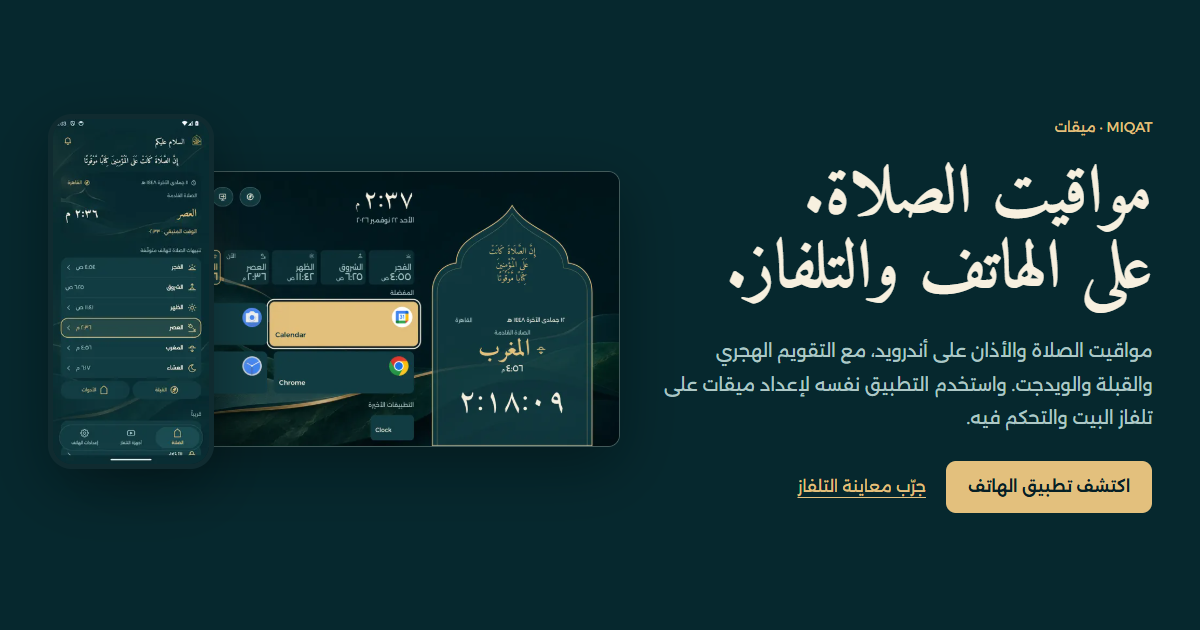
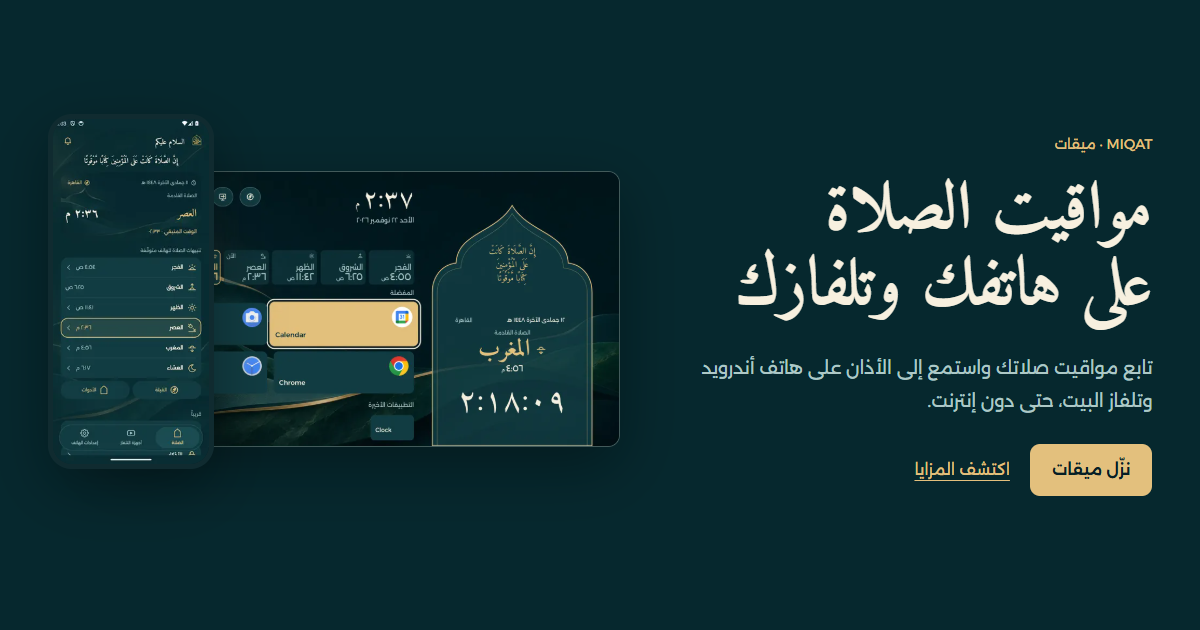
Rewrite product website for first-time visitors

Changed region(s): [[0.555, 0.2714, 0.9867, 0.8143], [0.8633, 0.181, 0.9558, 0.2413]]

diff --git a/site/src/lib/site.ts b/site/src/lib/site.ts
@@ -1,12 +1,7 @@
 // Every page of the preview: one per TV screen or mode, in Arabic (default, at the root) and English (/en/).
 import type { Lang } from './text';
-import { CITIES } from './data';
-
-const cityCount = CITIES.length;
-const countryCount = new Set(CITIES.map((city) => city.countryEn)).size;
-
 export const REPO = 'https://github.com/AbdelrahmanHajjaj/MiqatTV';
-export const INSTALL = `${REPO}#install`;
+export const RELEASE_TAG = 'v0.7.2-preview.2';
 
 type L = Record<Lang, string>;
 export type Page = {
@@ -23,19 +18,17 @@ export const PAGES: Page[] = [
   {
     slug: '', screen: 'home',
     nav: { ar: 'الرئيسية', en: 'Home' },
-    title: { ar: 'ميقات · مواقيت الصلاة على هاتف أندرويد والتلفاز', en: 'Miqat · Prayer times for Android phones and TVs' },
+    title: { ar: 'ميقات · مواقيت الصلاة والأذان على هاتفك وتلفازك', en: 'Miqat · Prayer times and Adhan for your phone and TV' },
     description: {
-      ar: 'مواقيت الصلاة والأذان والتقويم الهجري والقبلة والويدجت على هاتف أندرويد، مع وضع رفيق التلفاز وتطبيقَي Android TV وLG webOS. بالعربية والإنجليزية.',
-      en: 'Offline prayer times, Adhan, Hijri calendar, Qibla and widgets on Android phones, with TV companion mode and Android TV / LG webOS apps. Arabic and English.',
+      ar: 'تابع مواقيت صلاتك واستمع إلى الأذان على هاتف أندرويد وتلفاز البيت. تقويم هجري وقبلة وويدجت، مع تطبيقَي Android TV وLG webOS.',
+      en: 'Prayer times and Adhan on your Android phone and TV. Discover the Hijri calendar, Qibla, home-screen widgets and apps for Android TV and LG webOS.',
     },
     body: {
       ar: [
-        'الصلاة القادمة والعدّ التنازلي داخل المحراب، ومواقيت اليوم وتطبيقاتك المفضلة بجانبه. يعمل ميقات كشاشة رئيسية على أندرويد TV، وكتطبيق مستقل يعرض HDMI على LG.',
-        `المواقيت تُحسب على التلفاز نفسه دون إنترنت، لـ ${cityCount} مدينة في ${countryCount} دولة، مع اختيار طريقة الحساب ومذهب العصر وتعديل التاريخ الهجري.`,
+        'تابع الصلاة القادمة ومواقيت اليوم، واستمع إلى الأذان وإذاعة القرآن على شاشة البيت.',
       ],
       en: [
-        'The next prayer and countdown sit inside the mihrab, with today’s times and your favourite apps alongside. Android TV uses Miqat as Home; LG runs it as a separate app with HDMI.',
-        `Times are calculated on the TV, fully offline, for ${cityCount} cities in ${countryCount} countries, with your choice of calculation method, Asr school and Hijri date offset.`,
+        'Keep the next prayer and today’s times in view, with Adhan and Quran radio on the TV at home.',
       ],
     },
   },
@@ -44,17 +37,15 @@ export const PAGES: Page[] = [
     nav: { ar: 'مواقيت اليوم والقبلة', en: 'Today & Qibla' },
     title: { ar: 'مواقيت الصلاة اليوم والقبلة على التلفاز · ميقات', en: 'Today’s prayer times and Qibla on your TV · Miqat' },
     description: {
-      ar: 'مواقيت اليوم مع الوقت المتبقي ومفاتيح الأذان لكل صلاة واتجاه القبلة من مدينتك.',
-      en: 'Today’s prayer times, countdowns, per-prayer Adhan switches and the Qibla bearing from your city.',
+      ar: 'تابع مواقيت الصلاة اليوم واعرف اتجاه القبلة من مدينتك.',
+      en: 'See today’s prayer times and find the Qibla direction from your city.',
     },
     body: {
       ar: [
-        'شاشة «مواقيت اليوم» تعرض المواقيت الست مع الوقت المتبقي، ومفتاحًا مستقلًا لأذان كل صلاة.',
-        'تعرض البوصلة اتجاه القبلة من مدينتك، مع ضبط اتجاه الغرفة على أندرويد TV.',
+        'اعرف الوقت المتبقي لكل صلاة، واختر الصلوات التي تريد سماع أذانها.',
       ],
       en: [
-        'Today’s prayers shows all six times with the time left to each, and an independent Adhan switch for each prayer.',
-        'The compass shows the Qibla bearing from your city, with room-facing calibration on Android TV.',
+        'See how long remains until each prayer and choose which Adhan alerts to hear.',
       ],
     },
   },
@@ -63,51 +54,51 @@ export const PAGES: Page[] = [
     nav: { ar: 'تذكير قبل الصلاة', en: 'Reminder' },
     title: { ar: 'تذكير قبل الصلاة على التلفاز · ميقات', en: 'A reminder before each prayer on your TV · Miqat' },
     description: {
-      ar: 'تظهر التذكيرات على شاشة ميقات الرئيسية. ويمكن لخدمة الصلاة المفعّلة على أندرويد إظهار شريط فوق التطبيقات والمداخل المدعومة.',
-      en: 'Prayer reminders appear on Miqat Home. Android’s enabled prayer service can also show a banner over supported apps and inputs.',
+      ar: 'تذكير قبل الصلاة لتُنهي ما تشاهده وتستعد لها.',
+      en: 'A reminder before prayer, so you can finish what you’re watching and get ready.',
     },
     body: {
-      ar: ['تختار في الإعدادات متى يظهر التذكير: قبل الصلاة بعشر دقائق أو بخمس عشرة، أو إيقافه. ويتحوّل إطار المحراب إلى الذهبي الفاتح في آخر ربع ساعة.'],
-      en: ['Settings picks when the reminder comes: 10 or 15 minutes before the prayer, or off. The arch outline turns light gold in the last quarter hour.'],
+      ar: ['اختر وقت التذكير المناسب لك قبل أن يحين الأذان.'],
+      en: ['Choose how far ahead of the Adhan you’d like a reminder.'],
     },
   },
   {
     slug: 'call', screen: 'call', mode: 'call',
-    nav: { ar: 'الأذان', en: 'The call' },
-    title: { ar: 'الأذان على التلفاز في وقته · ميقات', en: 'The adhan on your TV, on time · Miqat' },
+    nav: { ar: 'الأذان', en: 'Adhan' },
+    title: { ar: 'استمع إلى الأذان على تلفازك · ميقات', en: 'Hear the Adhan on your TV · Miqat' },
     description: {
-      ar: 'أذان مجدول مع ١٣ صوتًا مدمجًا وتسجيل خاص للفجر.',
-      en: 'Scheduled Adhan with 13 built-in voices and a separate Fajr recording.',
+      ar: 'استمع إلى الأذان في البيت، مع ١٣ صوتًا للاختيار منها.',
+      en: 'Hear the call to prayer at home, with 13 Adhan voices to choose from.',
     },
     body: {
-      ar: ['اضبط مستوى الأذان من الإعدادات. أغلق شاشته بزر الرجوع، أو انتظر الإغلاق التلقائي بعد عشر دقائق.'],
-      en: ['Set the Adhan level in Settings. Press Back to dismiss its screen, or let it close after ten minutes.'],
+      ar: ['اختر الصوت ومستواه المناسبين للبيت، مع تسجيل مستقل لأذان الفجر.'],
+      en: ['Choose a voice and volume for your home, with a separate recording for Fajr.'],
     },
   },
   {
     slug: 'friday', screen: 'home', mode: 'friday',
     nav: { ar: 'الجمعة', en: 'Friday' },
-    title: { ar: 'وضع الجمعة: صلاة الجمعة وسورة الكهف · ميقات', en: 'Friday mode: Jumu’ah and Surat Al-Kahf · Miqat' },
+    title: { ar: 'صلاة الجمعة وسورة الكهف · ميقات', en: 'Jumu’ah and Surat Al-Kahf · Miqat' },
     description: {
-      ar: 'يوم الجمعة تحلّ صلاة الجمعة محل الظهر في المحراب وفي المواقيت، مع تذكير بقراءة سورة الكهف.',
-      en: 'On Fridays Jumu’ah replaces Dhuhr in the arch and the times, with a reminder to read Surat Al-Kahf.',
+      ar: 'عرض ليوم الجمعة مع صلاة الجمعة وتذكير بقراءة سورة الكهف.',
+      en: 'A Friday view with Jumu’ah and a reminder to read Surat Al-Kahf.',
     },
     body: {
-      ar: ['يبدأ وضع الجمعة تلقائيًا كل جمعة.'],
-      en: ['Friday mode starts each Friday.'],
+      ar: [],
+      en: [],
     },
   },
   {
     slug: 'ramadan', screen: 'home', mode: 'ramadan',
     nav: { ar: 'رمضان', en: 'Ramadan' },
-    title: { ar: 'وضع رمضان: العد التنازلي للإفطار والسحور · ميقات', en: 'Ramadan mode: countdown to iftar and suhoor · Miqat' },
+    title: { ar: 'الإفطار والسحور على تلفازك في رمضان · ميقات', en: 'Ramadan: iftar and suhoor on your TV · Miqat' },
     description: {
-      ar: 'في رمضان يعدّ المحراب تنازليًا إلى الإفطار، ويعرض موعد انتهاء السحور.',
-      en: 'In Ramadan the arch counts down to iftar and shows when suhoor ends.',
+      ar: 'تابع موعد الإفطار ونهاية وقت السحور على شاشة التلفاز في رمضان.',
+      en: 'Keep track of iftar and the end of suhoor on your TV during Ramadan.',
     },
     body: {
-      ar: ['يبدأ وضع رمضان وحده من التاريخ الهجري (أم القرى)، ويمكن تعديل التاريخ يومًا أو يومين في الإعدادات حسب رؤية الهلال في بلدك.'],
-      en: ['Ramadan mode starts by itself from the Hijri date (Umm al-Qura), which Settings can shift a day or two to match the moon sighting where you live.'],
+      ar: ['اعرف الوقت المتبقي للمغرب وأنت تستعد للإفطار.'],
+      en: ['See how long remains until Maghrib as you prepare for iftar.'],
     },
   },
   {
@@ -115,38 +106,38 @@ export const PAGES: Page[] = [
     nav: { ar: 'كل التطبيقات', en: 'All apps' },
     title: { ar: 'كل التطبيقات · ميقات', en: 'All apps · Miqat' },
     description: {
-      ar: 'كل التطبيقات المثبتة على التلفاز في شبكة واحدة، مع الصلاة القادمة في الأعلى. اضغط OK مطولًا لوضع تطبيق في المفضلة.',
-      en: 'Every app on the TV in one grid, with the next prayer at the top. Hold OK to put an app in favourites.',
+      ar: 'افتح تطبيقات تلفازك من مكان واحد، مع موعد الصلاة القادمة أمامك.',
+      en: 'Open your TV apps from one place, with the next prayer in view.',
     },
     body: {
-      ar: ['المعاينة تعرض أسماء تطبيقات للتوضيح؛ على التلفاز تظهر تطبيقاتك أنت.'],
-      en: ['The preview shows example apps; on the TV you see your own.'],
+      ar: ['احتفظ بالتطبيقات التي تستخدمها كثيرًا على الشاشة الرئيسية.'],
+      en: ['Keep the apps you use most on the Home screen.'],
     },
   },
   {
     slug: 'settings', screen: 'settings',
     nav: { ar: 'الإعدادات', en: 'Settings' },
-    title: { ar: 'إعدادات ميقات: المدينة وطريقة الحساب والأذان والإذاعة', en: 'Miqat settings: city, method, adhan and radio' },
+    title: { ar: 'إعدادات الصلاة والمظهر · ميقات', en: 'Prayer and display settings · Miqat' },
     description: {
-      ar: 'اختر مدينتك وطريقة حساب المواقيت ومذهب العصر والتذكير وصوت الأذان ومحطة إذاعة القرآن الكريم واللغة والأرقام.',
-      en: 'Choose your city, calculation method, Asr school, reminders, adhan voice, Quran radio station, language and digits.',
+      ar: 'مواقيت وأذان وألوان وخلفيات تناسبك.',
+      en: 'Prayer times, Adhan, colours and backgrounds to suit you.',
     },
     body: {
-      ar: ['غيّر المدينة أو طريقة الحساب لعرض مواقيتك. تُحفظ إعدادات المعاينة في متصفحك.'],
-      en: ['Choose a city and calculation method to see your prayer times. Preview settings stay in your browser.'],
+      ar: ['اضبط مواقيت مدينتك واختر صوت الأذان ومحطة إذاعة القرآن التي تحبّها.'],
+      en: ['Set prayer times for your location and choose the Adhan voice and Quran radio station you enjoy.'],
     },
   },
   {
     slug: 'screensaver', screen: 'screensaver',
     nav: { ar: 'شاشة التوقف', en: 'Screensaver' },
-    title: { ar: 'شاشة التوقف: محراب خافت والصلاة القادمة · ميقات', en: 'Screensaver: a dim arch and the next prayer · Miqat' },
+    title: { ar: 'الساعة والصلاة القادمة على التلفاز · ميقات', en: 'Clock and next prayer on TV · Miqat' },
     description: {
-      ar: 'شاشة توقف خافتة: محراب ينتقل ببطء مع الساعة والصلاة القادمة، والإذاعة إن كانت تعمل.',
-      en: 'A dim screensaver: a slowly drifting arch with the clock and the next prayer, plus the radio when it plays.',
+      ar: 'شاهد الساعة والصلاة القادمة على شاشة توقف خافتة.',
+      en: 'Keep the clock and next prayer visible on a dim screensaver.',
     },
     body: {
-      ar: ['تتحرك كل دقيقة لتحمي الشاشة، وتبقى خافتة لتناسب الغرفة ليلًا.'],
-      en: ['It moves every minute to protect the panel and stays dim for a dark room.'],
+      ar: [],
+      en: [],
     },
   },
 ];

diff --git a/docs/WORK.md b/docs/WORK.md
@@ -1,19 +1,18 @@
 # Current work
 
-Updated: 2026-11-22. Approved scope: remove filler, vague marketing language and
-repeated hardware-verification disclaimers from the bilingual website, README
-and current guides. Keep concrete setup requirements, source attribution and
-validation records. Refresh social cards from the edited hero, merge and publish
-preview builds for Android phone, Android TV, LG and the standalone installer.
-Correct the Pages upload/deploy boundary found during release preparation.
+Updated: 2026-11-22. Approved scope: research real product websites and rewrite
+Miqat's bilingual website for first-time visitors. Showcase phone prayers, TV
+controls and the two TV apps through useful features and screenshots. Remove
+release-note and implementation commentary. Add device-labelled downloads from
+the published preview and refresh social cards. Research lives in site/README.md.
 
 Check rendered pages in English/Arabic, existing website regressions, local links
 and whitespace. Deliver through required PR checks, a normal merge and the
 existing Pages workflow. PR/deployment records own remote status.
 
 Product baseline: Android TV 0.7.2/code 13, LG 0.2.30, phone 0.5.18/code 34.
-PR #13 is merged. This task changes public copy and documentation; app behavior
-stays unchanged. Publish the preview from successful final-main validation.
+PR #16 is merged and v0.7.2-preview.2 is public. This task changes the website;
+app behaviour and release packages stay unchanged.
 
 Overwrite only the existing Miqat-latest review exports under state/builds/.
 Retain the phone's existing local signer; private logs/captures stay under state/.

diff --git a/site/README.md b/site/README.md
@@ -5,6 +5,29 @@ at [MiqatTV](https://abdelrahmanhajjaj.github.io/MiqatTV/). Arabic is at the roo
 English is under `/en/`. The static Astro site presents four product surfaces:
 standalone Android phone, TV companion mode, Android/Google TV and LG webOS.
 
+## Product copy
+
+Write for someone meeting Miqat for the first time. Introduce prayer times and
+Adhan, show what people can do on each device, then offer the matching download.
+Each screenshot caption should explain a useful feature. Keep catalog order,
+internal preset names, geometry, save behaviour and implementation history in
+the development guides. Use the same approach in Arabic and English.
+
+Research reviewed on 22 November 2026:
+
+- [Pillars](https://thepillarsapp.com/): prayer features presented through daily
+  use, with screenshots and an app download.
+- [Things](https://culturedcode.com/things/): the app's purpose before feature
+  exploration, with downloads grouped by device.
+- [Flighty](https://flighty.com/): features explained through travel situations
+  and their usefulness to the traveller.
+
+Miqat applies these patterns to its own features and screenshots. Do not copy
+competitor wording, ratings, awards or unimplemented features.
+`src/lib/site.ts` owns `RELEASE_TAG`; update it when publishing a new preview and
+check the three device download links. The release page also provides the
+optional standalone TV installer.
+
 ## Content and assets
 
 - `src/components/ProductShowcase.astro`: phone feature gallery, companion mode,

diff --git a/README.md b/README.md
@@ -14,8 +14,8 @@ Use Miqat on its own; a TV is optional.
 - Per-prayer Adhan, Short tone or Silent, independent vibration, weekdays, day overrides and minute adjustments.
 - Built-in voices and a named private library of recordings imported from your device; configurable level and recording length.
 - Qibla compass, an optional map, and resizable home-screen widgets starting at 1×1.
-- Miqat-first themes and portrait backgrounds, Arabic/English, clock/digit choices and accessible sizing.
-- Manual or detected location, with optional Android-scheduled location updates while the app is closed.
+- Themes and backgrounds to personalise the app, with Arabic/English and adjustable text sizes.
+- Prayer times for your city, with optional location updates when you travel.
 
 [Phone setup and controls](docs/PHONE.md).
 
@@ -44,7 +44,7 @@ Pairing uses encrypted connections with revocable phone access. [Pairing and con
 
 ## On the TV
 
-Both TV apps offer offline prayer times, Adhan, reminders, Qibla bearing, Quran radio and shared Miqat themes. Home keeps the Hijri date and city in its prayer card and highlights the next prayer. Ordinary settings save immediately.
+See the next prayer across the room, hear the Adhan and listen to Quran radio on your TV. Both apps include offline prayer times, reminders, Qibla direction and themes.
 
 | Platform | What it does |
 | --- | --- |

diff --git a/docs/EVIDENCE.md b/docs/EVIDENCE.md
@@ -1,5 +1,21 @@
 # Validation evidence
 
+## Product website for first-time visitors — 22 November 2026
+
+Reviewed the live Pillars, Things and Flighty product websites. Sources and the
+resulting copy guide are in site/README.md. English/Arabic product sections and
+TV feature pages now describe everyday uses. Removed catalog order, internal
+names, control geometry and save behaviour from marketing copy. Added three
+device-labelled download cards linked to the published v0.7.2-preview.2 assets.
+README and agent guidance follow the same audience distinction.
+
+Canonical data/token checks and website unit/build/browser checks pass. Both
+languages pass at 390/900/1440 px, including full-size image links, navigation
+and page keys. Existing TV settings/pairing/focus checks pass at 80/100/150%.
+Reviewed mobile heroes, desktop/mobile downloads and refreshed social cards.
+Relative links and whitespace checks pass. Raw captures stay under state/.
+PR and Pages records own delivery status. App packages remain unchanged.
+
 ## Product copy and preview publication — 22 November 2026
 
 Removed filler and repeated hardware disclaimers from the English/Arabic website,

diff --git a/AGENTS.md b/AGENTS.md
@@ -29,6 +29,10 @@ in companion/ in this repository; keep phone prayer settings independent of TVs.
   explanatory filler during later work. Avoid generic marketing slogans and
   defensive hardware-verification disclaimers in product copy. Keep concrete
   requirements in setup guides and test history in EVIDENCE.md.
+  Write the product website for first-time visitors: introduce what Miqat does,
+  connect features to everyday use and provide device-labelled downloads. Keep
+  release notes, catalog order, internal names and design/implementation choices
+  out of marketing copy. See the research and copy guide in site/README.md.
 
 - Use Miqat / ميقات and tv.miqat.* identifiers. Migration from the previous app
   identity uses a fresh installation; do not add legacy aliases.

diff --git a/CHANGELOG.md b/CHANGELOG.md
@@ -2,6 +2,7 @@
 
 ## Product website and documentation
 
+- Rewrite the English/Arabic website around daily prayer features, phone-to-TV controls and device-labelled downloads, informed by product website research.
 - Showcase standalone Android phone prayers, TV companion mode, Android/Google TV and LG across the bilingual website and guides, with current screenshots.
 - Replace filler and repeated hardware disclaimers with concise feature descriptions in English and Arabic.
 - Reuse the website build's Pages artifact when retrying deployment.
